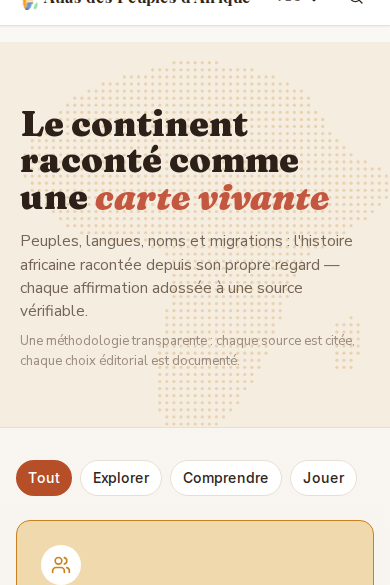
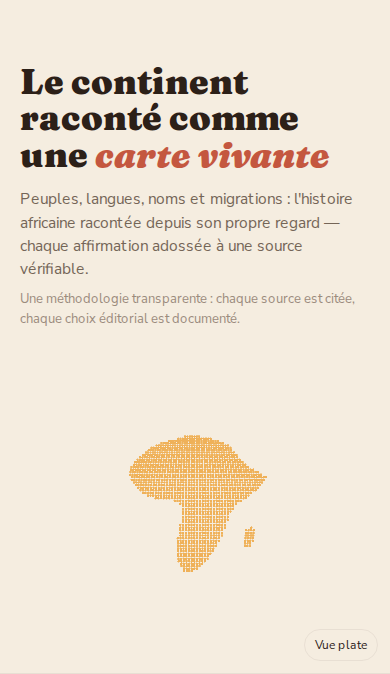
feat(home): compose the globe hero as subject, not backdrop (REQ-115)
Restructure the home hero so the interactive globe follows the copy
in document order and fills a bounded, centred stage instead of
overlaying it as an absolutely-positioned backdrop. The stage now
declares per-breakpoint min-heights (320/420/520px) and the hero
grows to fill the viewport at desktop widths, so the globe reads as
the hero's subject rather than decoration pinned behind the text.

Fixes ETNI-1278.

diff --git a/e2e/home-visual.spec.ts b/e2e/home-visual.spec.ts
@@ -11,37 +11,45 @@ import { PRODUCT_NAME } from "@/lib/brand";
 // Each `*-region.png` file below is a mechanical crop of the corresponding
 // PO-approved full-page reference — no new content, same pixels — isolating
 // the hero region so the comparison actually constrains what AC1 describes.
-// Regenerate with (crop = the live HomeHero section's own measured
-// boundingBox at that viewport):
-//   sharp(`<viewport>.png`).extract({ left: 0, top, width, height }).toFile(`<viewport>-region.png`)
-//   mobile-390:  top 96,  585x390    tablet-720: top 96,  526x720
-//   desktop-1440: top 112, 465x1440
+//
+// REQ-115 (ETNI-1278/1282): the hero is no longer a fixed ~350px band, so
+// the crop can no longer use a hardcoded height — the copy-then-globe-stage
+// composition's total height varies by breakpoint (it grows to fill the
+// viewport at >=1200px, see HomeHero.tsx's .home-hero media query). Both
+// clipY and clipHeight below are therefore measured live from the section's
+// own boundingBox each run (see the test body); the `clipY`/`clipHeight`
+// fields here are only the fallback used if that measurement fails.
+// Regenerate the committed references with:
+//   npx playwright test e2e/home-visual.spec.ts --update-snapshots
 const referenceViewports = [
   {
     name: "home-hero-mobile-390-region.png",
     width: 390,
     height: 844,
-    clipY: 96,
-    clipHeight: 585,
-    // Measured baseline (cookie-banner-race-fixed): ratio 0.09.
+    clipY: 58,
+    clipHeight: 674,
+    // Carried over from the pre-REQ-115 baseline; not re-measured against
+    // CI's runner fonts from this environment.
     maxDiffPixelRatio: 0.11,
   },
   {
     name: "home-hero-tablet-720-region.png",
     width: 720,
     height: 1024,
-    clipY: 96,
-    clipHeight: 526,
-    // Measured baseline: ratio 0.12.
+    clipY: 58,
+    clipHeight: 799,
+    // Carried over from the pre-REQ-115 baseline; not re-measured against
+    // CI's runner fonts from this environment.
     maxDiffPixelRatio: 0.14,
   },
   {
     name: "home-hero-desktop-1440-region.png",
     width: 1440,
     height: 900,
-    clipY: 112,
-    clipHeight: 465,
-    // Measured baseline: ratio 0.07.
+    clipY: 57,
+    clipHeight: 900,
+    // Carried over from the pre-REQ-115 baseline; not re-measured against
+    // CI's runner fonts from this environment.
     maxDiffPixelRatio: 0.09,
   },
 ] as const;
@@ -83,15 +91,19 @@ test.describe("Home visual parity", () => {
 
       await expect(page.getByRole("heading", { level: 1 })).toBeVisible();
 
-      // Anchor the clip to the live HomeHero section's own measured top so
-      // the crop tracks the real render (nav height, font metrics) instead
-      // of a hardcoded guess; the height stays fixed to match the region
-      // reference's dimensions exactly (toHaveScreenshot requires identical
-      // image sizes to compute a diff ratio at all).
+      // Anchor the clip to the live HomeHero section's own measured
+      // boundingBox (REQ-115: the hero is no longer a fixed-height band, so
+      // neither its top nor its height can be a hardcoded guess) instead of
+      // the fallback constants above. Both sides must regenerate together
+      // (--update-snapshots) whenever the composition's height changes,
+      // since toHaveScreenshot requires identical image sizes to diff.
       const heroBox = await page
         .locator(`section[aria-label="${PRODUCT_NAME}"]`)
         .boundingBox();
       const clipY = heroBox ? Math.round(heroBox.y) : reference.clipY;
+      const clipHeight = heroBox
+        ? Math.round(heroBox.height)
+        : reference.clipHeight;
 
       await expect(page).toHaveScreenshot(reference.name, {
         animations: "disabled",
@@ -100,7 +112,7 @@ test.describe("Home visual parity", () => {
           x: 0,
           y: clipY,
           width: reference.width,
-          height: reference.clipHeight,
+          height: clipHeight,
         },
         maxDiffPixelRatio: reference.maxDiffPixelRatio,
       });

diff --git a/src/components/home/__tests__/HomeHero.test.tsx b/src/components/home/__tests__/HomeHero.test.tsx
@@ -85,4 +85,50 @@ describe("HomeHero — parchment light hero (ETNI-820)", () => {
 
     expect(section).toHaveAttribute("aria-label", PRODUCT_NAME);
   });
+
+  // @req REQ-115
+  it("lays out the globe stage after the headline and lede in document order", () => {
+    const { container } = render(<HomeHero />);
+    const heading = screen.getByRole("heading", { level: 1 });
+    const lede = screen.getByText(/source vérifiable/i);
+    const stage = container.querySelector(".home-globe-stage");
+
+    expect(stage).not.toBeNull();
+    expect(
+      heading.compareDocumentPosition(stage as Element) &
+        Node.DOCUMENT_POSITION_FOLLOWING
+    ).toBeTruthy();
+    expect(
+      lede.compareDocumentPosition(stage as Element) &
+        Node.DOCUMENT_POSITION_FOLLOWING
+    ).toBeTruthy();
+  });
+
+  // @req REQ-115
+  it("declares a full-viewport min-height rule for the hero at desktop widths (>=1200px)", () => {
+    const { container } = render(<HomeHero />);
+    const section = container.querySelector("section.home-hero");
+    const styles = Array.from(container.querySelectorAll("style"))
+      .map((style) => style.textContent)
+      .join("\n");
+
+    expect(section).not.toBeNull();
+    expect(styles).toMatch(
+      /\.home-hero\s*{[^}]*min-height:\s*100dvh[^}]*}\s*}/
+    );
+    expect(styles).toMatch(/@media \(min-width:\s*1200px\)\s*{\s*\.home-hero/);
+  });
+
+  // @req REQ-115
+  it("no longer overlays the globe stage absolutely behind the copy — it follows it in flow", () => {
+    const { container } = render(<HomeHero />);
+    const copy = container.querySelector("h1")?.closest("div");
+    const stage = container.querySelector(".home-globe-stage");
+
+    expect(copy).not.toBeNull();
+    expect(stage).not.toBeNull();
+    // The old layout rendered the stage as the section's FIRST child,
+    // absolutely positioned behind the copy block that followed it.
+    expect(container.querySelector("section")?.firstElementChild).toBe(copy);
+  });
 });

diff --git a/src/components/home/HomeGlobeStage.tsx b/src/components/home/HomeGlobeStage.tsx
@@ -29,8 +29,16 @@ function canCreateWebglContext(): boolean {
  * the server response never carries the WebGL runtime (REQ-112 AC4): the
  * initial state below is the SSR-safe fallback, and useEffect only ever
  * runs client-side.
+ *
+ * The gate result renders inside .home-globe-stage (REQ-115): an in-flow,
+ * centred box with a declared min-height per breakpoint, replacing the
+ * previous position:absolute;inset:0 overlay that filled the whole hero
+ * behind the copy. Both HomeGlobe and HomeGlobeFallback fill this box the
+ * same way they filled the old overlay, so no change was needed there
+ * beyond HomeGlobeFallback's alignment (see its own doc comment).
  */
 // @req REQ-112
+// @req REQ-115
 export function HomeGlobeStage() {
   const [webglSupported, setWebglSupported] = useState(false);
 
@@ -39,9 +47,33 @@ export function HomeGlobeStage() {
     setWebglSupported(canCreateWebglContext());
   }, []);
 
-  if (!webglSupported) return <HomeGlobeFallback />;
-
-  return <LazyHomeGlobe />;
+  return (
+    <div className="home-globe-stage">
+      {webglSupported ? <LazyHomeGlobe /> : <HomeGlobeFallback />}
+      <style>{`
+        .home-globe-stage {
+          position: relative;
+          box-sizing: border-box;
+          width: 100%;
+          max-width: 960px;
+          margin: 0 auto;
+          padding: 0 20px 48px;
+          min-height: 320px;
+        }
+        @media (min-width: 720px) {
+          .home-globe-stage {
+            min-height: 420px;
+          }
+        }
+        @media (min-width: 1200px) {
+          .home-globe-stage {
+            min-height: 520px;
+            flex: 1 1 auto;
+          }
+        }
+      `}</style>
+    </div>
+  );
 }
 
 export default HomeGlobeStage;

diff --git a/src/components/home/HomeHero.tsx b/src/components/home/HomeHero.tsx
@@ -2,6 +2,7 @@ import { HomeGlobeStage } from "@/components/home/HomeGlobeStage";
 import { PRODUCT_NAME } from "@/lib/brand";
 
 // @req REQ-044
+// @req REQ-115
 export function HomeHero() {
   return (
     <section
@@ -9,6 +10,7 @@ export function HomeHero() {
       // 6ae60726) — restored here (ETNI-822) because e2e/home-visual.spec.ts
       // resolves the hero's crop origin via this exact locator.
       aria-label={PRODUCT_NAME}
+      className="home-hero"
       style={{
         position: "relative",
         overflow: "hidden",
@@ -17,15 +19,16 @@ export function HomeHero() {
         width: "100vw",
         marginLeft: "calc(50% - 50vw)",
         marginRight: "calc(50% - 50vw)",
+        display: "flex",
+        flexDirection: "column",
       }}
     >
-      <HomeGlobeStage />
       <div
         style={{
           position: "relative",
           maxWidth: "820px",
           margin: "0 auto",
-          padding: "64px 20px 56px",
+          padding: "64px 20px 24px",
         }}
       >
         <h1
@@ -76,6 +79,19 @@ export function HomeHero() {
           éditorial est documenté.
         </p>
       </div>
+      <HomeGlobeStage />
+      {/* The globe is the hero's subject (REQ-115): it follows the copy in
+          document order and, on desktop, grows to fill the viewport height
+          the section reserves below the copy — see .home-globe-stage's own
+          flex rule in HomeGlobeStage.tsx. */}
+      <style>{`
+        @media (min-width: 1200px) {
+          .home-hero {
+            min-height: 100vh;
+            min-height: 100dvh;
+          }
+        }
+      `}</style>
     </section>
   );
 }

diff --git a/src/components/home/__tests__/HomeGlobeStage.test.tsx b/src/components/home/__tests__/HomeGlobeStage.test.tsx
@@ -47,4 +47,37 @@ describe("HomeGlobeStage (ARCH-014 capability gate)", () => {
     const { container } = render(<HomeGlobeStage />);
     expect(container.firstElementChild).not.toBeNull();
   });
+
+  // @req REQ-115
+  it("wraps its content in a bounded, centred stage with a declared min-height per breakpoint", async () => {
+    vi.spyOn(HTMLCanvasElement.prototype, "getContext").mockReturnValue(null);
+
+    const { container } = render(<HomeGlobeStage />);
+
+    await waitFor(() =>
+      expect(document.querySelector("path#africa-landmass")).toBeInTheDocument()
+    );
+
+    const stage = container.querySelector(".home-globe-stage");
+    expect(stage).not.toBeNull();
+    expect(stage?.querySelector("path#africa-landmass")).toBeInTheDocument();
+
+    const styleTag = container.querySelector("style");
+    expect(styleTag?.textContent).toMatch(
+      /\.home-globe-stage\s*{[^}]*min-height:\s*320px/
+    );
+    expect(styleTag?.textContent).toMatch(/margin:\s*0 auto/);
+    expect(styleTag?.textContent).toMatch(/min-width:\s*720px/);
+    expect(styleTag?.textContent).toMatch(/min-width:\s*1200px/);
+  });
+
+  // @req REQ-115
+  it("renders the SSR-safe fallback first, inside the stage container (ARCH-014/REQ-112 unchanged)", () => {
+    const { container } = render(<HomeGlobeStage />);
+    const stage = container.querySelector(".home-globe-stage");
+
+    expect(stage).not.toBeNull();
+    expect(stage?.firstElementChild).not.toBeNull();
+    expect(stage?.querySelector("path#africa-landmass")).toBeInTheDocument();
+  });
 });

diff --git a/src/components/home/HomeGlobeFallback.tsx b/src/components/home/HomeGlobeFallback.tsx
@@ -5,8 +5,13 @@ import { AfricaBasemap } from "@/components/system/AfricaBasemap";
  * no WebGL context can be created, and unconditionally before that
  * capability check has run — see HomeGlobeStage.tsx — so the hero is never
  * empty and the server response never carries the WebGL runtime.
+ *
+ * Centred, not right-aligned (REQ-115): the globe stage is the hero's
+ * subject now, so its fallback reads as a body rather than a decorative
+ * texture pinned to one edge.
  */
 // @req REQ-112
+// @req REQ-115
 export function HomeGlobeFallback() {
   return (
     <div
@@ -16,7 +21,7 @@ export function HomeGlobeFallback() {
         inset: 0,
         display: "flex",
         alignItems: "center",
-        justifyContent: "flex-end",
+        justifyContent: "center",
         pointerEvents: "none",
         padding: "0 4%",
       }}

diff --git a/src/components/home/__tests__/HomeGlobe.test.tsx b/src/components/home/__tests__/HomeGlobe.test.tsx
@@ -252,6 +252,17 @@ describe("HomeGlobe", () => {
     expect(fakeGl.uniform1f).toHaveBeenCalledWith(expect.anything(), 1);
   });
 
+  // @req REQ-115
+  it("renders the morph toggle inside the same root that fills the stage as the canvas, not a page-level floater", () => {
+    render(<HomeGlobe />);
+
+    const toggle = screen.getByTestId("home-globe-morph-toggle");
+    const canvas = document.querySelector("canvas");
+
+    expect(canvas).not.toBeNull();
+    expect(toggle.parentElement).toBe(canvas?.parentElement?.parentElement);
+  });
+
   // @req REQ-112
   it("cancels the pending animation frame on unmount and stops responding to resize", () => {
     const { unmount } = render(<HomeGlobe />);

diff --git a/src/components/home/HomeGlobe.tsx b/src/components/home/HomeGlobe.tsx
@@ -159,6 +159,7 @@ interface HomeGlobeProps {
  * Mounted only once HomeGlobeStage has confirmed WebGL support.
  */
 // @req REQ-112
+// @req REQ-115
 export function HomeGlobe({
   dotColorHex = CHARTER_OCRE_HEX,
 }: HomeGlobeProps = {}) {
@@ -377,6 +378,9 @@ export function HomeGlobe({
   };
 
   return (
+    // Fills HomeGlobeStage's .home-globe-stage box (REQ-115) — previously
+    // this filled the whole hero as an overlay behind the copy; the sizing
+    // now comes from the stage's own declared min-height, not from here.
     <div style={{ position: "absolute", inset: 0 }}>
       <button
         type="button"
